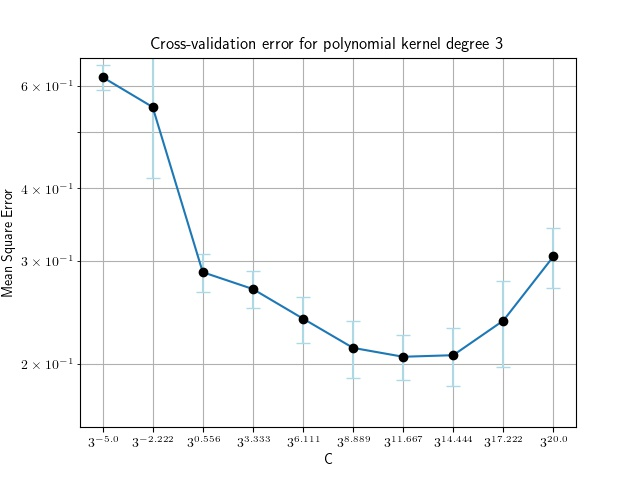
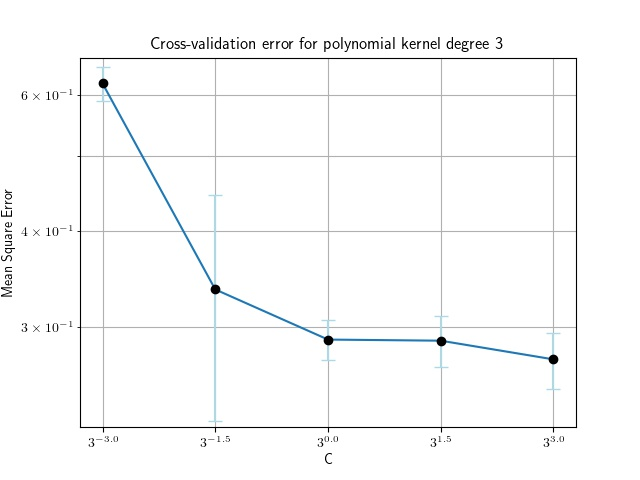
add more fig

diff --git a/main.py b/main.py
@@ -18,11 +18,13 @@ args = parser.parse_args()
 def question3(train, test):
   #global c_range
   c_range = np.linspace(-5, 20, 10)
-
+  c_range = np.linspace(-3, 3, 5)
+  #c_range = np.linspace(-5, 5, 2)
   C = 3** c_range
   
   #print(C)
   degree = [1, 2, 3, 4, 5]
+  
   #degree = [2]
   #degree = [1, 2]
   mse = {}
@@ -42,13 +44,14 @@ def question3(train, test):
         p_label, p_acc, p_val = svm_predict(val_data["labels"], val_data['features'], m, "-q")
         cross_val.append(p_acc[1])
         acc_val.append(p_acc[0])
-        if loss > p_acc[1]:
-          loss = p_acc[1] 
-          best_param["degree"] = d_param
-          best_param["C"] = c_param
+        
       #print(c_param, p_acc[1])
       cross_val = np.array(cross_val)
       acc_val = np.array(acc_val)
+      if loss > np.mean(cross_val):
+        loss = np.mean(cross_val)
+        best_param["degree"] = d_param
+        best_param["C"] = c_param
       mse[d_param][c_param] = {"mean": np.mean(cross_val), 
                                "std": np.std(cross_val),
                                "acc": np.mean(acc_val)}
@@ -84,18 +87,20 @@ def question4(train, test, best_param):
       test_val.append(p_acc[1])
       acc_test.append(p_acc[0])
 
-      if loss > p_acc[1]:
-        loss = p_acc[1] 
-        best_param["degree"] = d_param
-        best_param["C"] = best_c
+      
       _, _, p_val = svm_predict(train_data["labels"], train_data['features'], m, "-q")
       p_val = np.array(p_val)
-      num_support_vec.append(np.sum((np.abs(np.abs(p_val) - 1.0) < 1e-2).astype(np.int64)))
+      num_support_vec.append(np.sum((np.abs(np.abs(p_val) - 1.0) < 1e-3).astype(np.int64)))
       
     cross_val = np.array(cross_val)
     test_val = np.array(test_val)
     acc_val = np.array(acc_val)
     acc_test = np.array(acc_test)
+    num_support_vec = np.array(num_support_vec)
+    if loss > np.mean(cross_val):
+      loss = np.mean(cross_val) 
+      best_param["degree"] = d_param
+      best_param["C"] = best_c
     train_mse[d_param] = {"mean": np.mean(cross_val), 
                     "std": np.std(cross_val),
                     "acc": np.mean(acc_val),
@@ -129,9 +134,11 @@ def question5(train, test, best_param):
 def main():
   train, test = data_utils.read_data()
   best_param = question3(train, test)
-  print(best_param)
+  print(f"q3 {best_param}")
+
   best_param = question4(train, test, best_param)
-  print(best_param)
+  print(f"q4 {best_param}")
+  exit()
   question5(train, test, best_param)
 
 if __name__ == "__main__":

diff --git a/utils/visualized_utils.py b/utils/visualized_utils.py
@@ -67,7 +67,7 @@ def plot4(train_error, test_error, degree):
               capsize=5)
       plt.plot(x, num)
       plt.xlabel(r"Degree")
-      plt.ylabel(r"Mean Square Error")
+      plt.ylabel(r"Number of support vectors")
       plt.title(r"Number of suppport vectors for polynomial kernel")
       im_path = f"support.jpg"
       plt.xticks(x, xtick_label)
